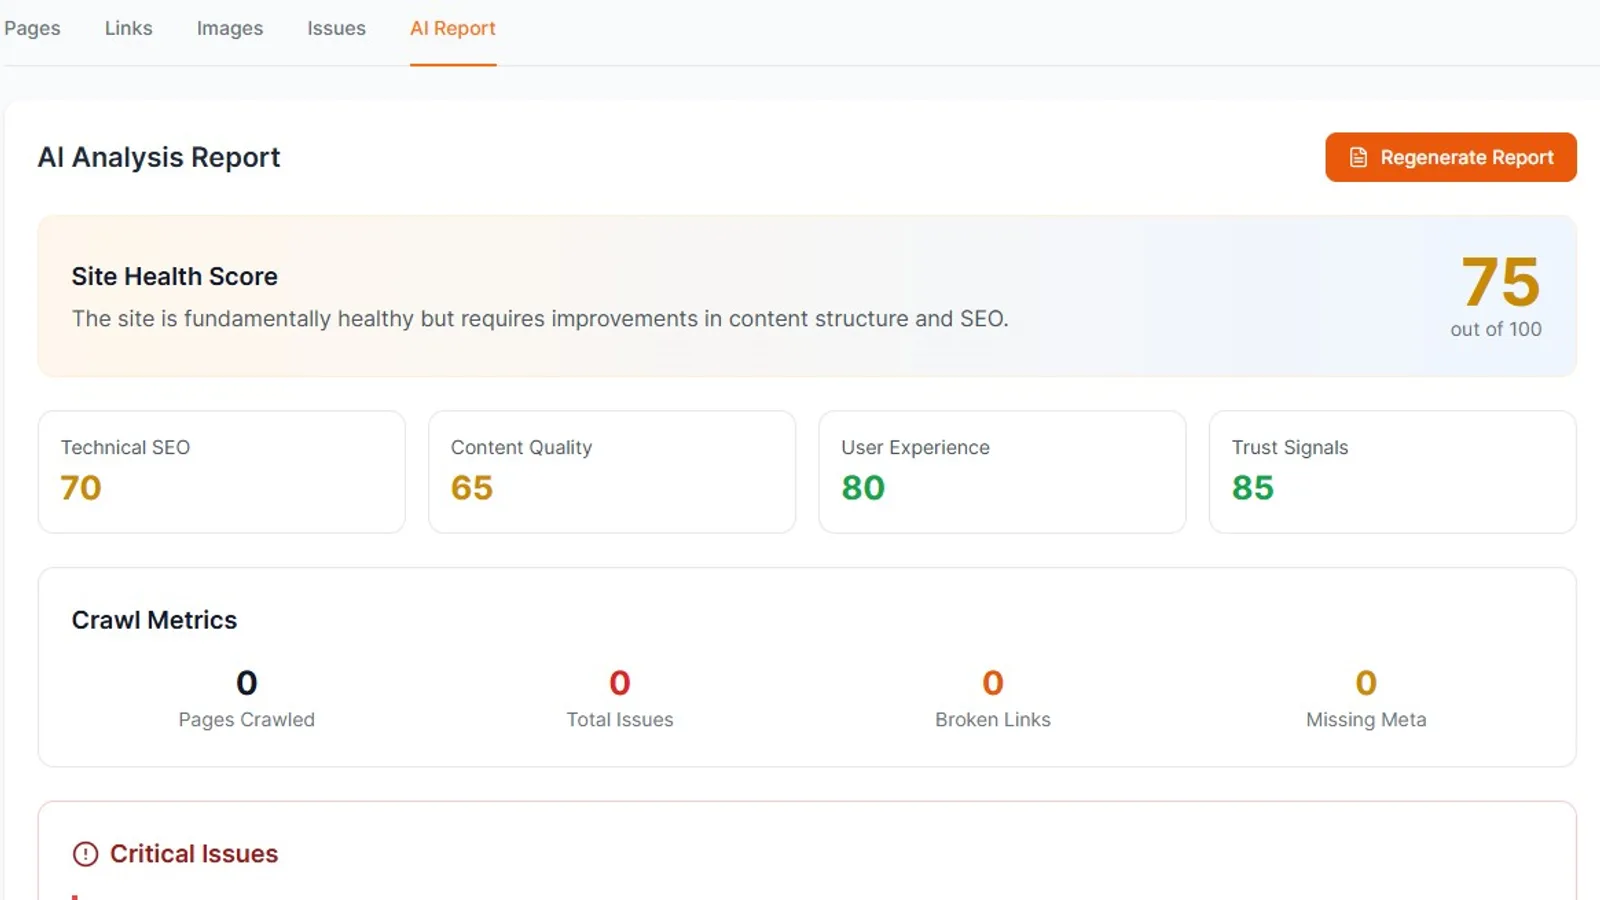
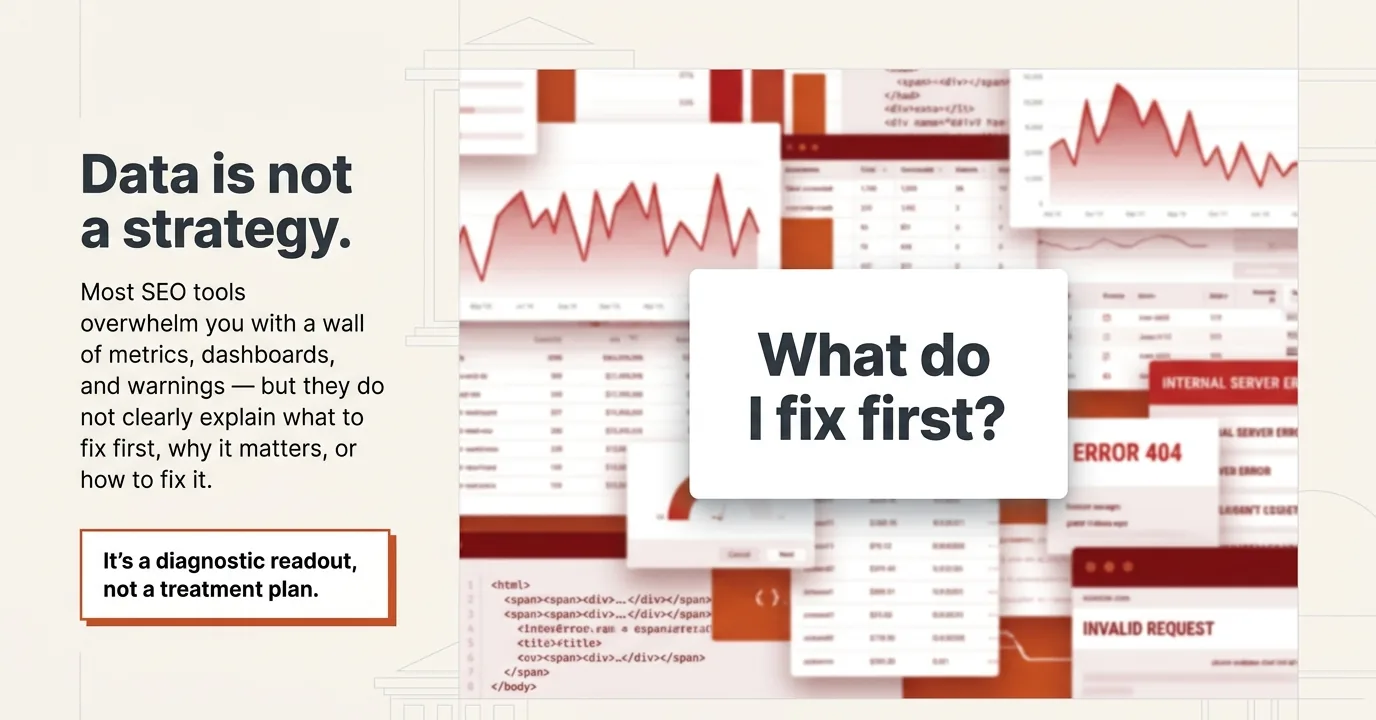
feat: landing-page how-it-works + severity sections; portfolio slide deck (#79)
Landing page (MarketingHomePage):
- Upgraded 3-step 'How It Works' to a 5-step stepper (URL -> crawl ->
  detect -> analyze with AI -> copy-paste fixes).
- Added 'Surfacing the signals that matter' — issues grouped by severity
  (critical/high/medium), matching the real issue-detector categories.

Portfolio:
- New cover thumbnail (optimized hero, 1878KB PNG -> 110KB WebP).
- 8 marketing slides converted to WebP (NotebookLM watermark cropped out),
  with accurate EN + es-MX alt text.
- PORTFOLIO.md accuracy pass: removed Celery/Redis (now asyncio in-process),
  set live_url, added Vite/Docker, refreshed health_status.

diff --git a/frontend/src/pages/MarketingHomePage.tsx b/frontend/src/pages/MarketingHomePage.tsx
@@ -3,6 +3,10 @@ import { Link, useNavigate } from "react-router-dom";
 import { useAuth } from "../contexts/AuthContext";
 import {
   Sparkles,
+  Globe,
+  Waypoints,
+  ClipboardCheck,
+  AlertTriangle,
   Target,
   TrendingUp,
   Zap,
@@ -316,58 +320,161 @@ const MarketingHomePage: React.FC = () => {
         </div>
       </section>
 
-      {/* How It Works */}
+      {/* How It Works — From URL to action in 5 steps */}
       <section className="py-20 bg-white">
         <div className="max-w-7xl mx-auto px-4 sm:px-6 lg:px-8">
           <div className="text-center mb-16">
             <h2 className="text-3xl md:text-5xl font-bold text-gray-900 mb-6">
-              How It Works
+              From URL to action in 5 steps
             </h2>
             <p className="text-xl text-gray-600 max-w-3xl mx-auto">
-              Paste a URL. Get a consultant-grade report. Three steps, three
-              minutes.
+              Paste a URL. Get a consultant-grade, copy-paste-ready action plan
+              — usually in minutes.
             </p>
           </div>
 
-          <div className="grid md:grid-cols-3 gap-12 max-w-5xl mx-auto">
-            <div className="text-center">
-              <div className="w-16 h-16 bg-secondary-100 rounded-full flex items-center justify-center mx-auto mb-6">
-                <span className="text-2xl font-bold text-secondary-600">1</span>
-              </div>
-              <h3 className="text-xl font-semibold text-gray-900 mb-3">
-                Paste Your URL
-              </h3>
-              <p className="text-gray-600">
-                Enter any website URL. Configure depth, page limits, and crawl
-                settings — or just use the defaults.
-              </p>
-            </div>
+          <div className="relative">
+            {/* Connecting line (desktop) */}
+            <div
+              className="hidden lg:block absolute top-8 left-[10%] right-[10%] h-0.5 bg-gradient-to-r from-primary-800 via-secondary-500 to-secondary-600"
+              aria-hidden="true"
+            />
+            <ol className="grid grid-cols-1 sm:grid-cols-2 lg:grid-cols-5 gap-10 lg:gap-6 relative">
+              {[
+                {
+                  icon: Globe,
+                  title: "Enter a URL",
+                  desc: "Drop in any website address.",
+                },
+                {
+                  icon: Waypoints,
+                  title: "Crawl the full site",
+                  desc: "We safely map every reachable page.",
+                },
+                {
+                  icon: Search,
+                  title: "Detect technical & content issues",
+                  desc: "Problems flagged automatically across the site.",
+                },
+                {
+                  icon: Brain,
+                  title: "Analyze with AI",
+                  desc: "Findings prioritized by real business impact.",
+                },
+                {
+                  icon: ClipboardCheck,
+                  title: "Get prioritized, copy-paste fixes",
+                  desc: "Paste straight into your CMS — or hand to your AI assistant.",
+                },
+              ].map((step, i) => {
+                const Icon = step.icon;
+                return (
+                  <li
+                    key={step.title}
+                    className="relative flex flex-col items-center text-center"
+                  >
+                    <div className="w-16 h-16 rounded-full bg-white border-2 border-secondary-500 flex items-center justify-center mb-5 shadow-soft relative z-10">
+                      <Icon className="w-7 h-7 text-secondary-600" />
+                    </div>
+                    <div className="text-sm font-bold text-secondary-600 mb-1">
+                      Step {i + 1}
+                    </div>
+                    <h3 className="text-lg font-semibold text-gray-900 mb-2">
+                      {step.title}
+                    </h3>
+                    <p className="text-sm text-gray-600 max-w-[16rem]">
+                      {step.desc}
+                    </p>
+                  </li>
+                );
+              })}
+            </ol>
+          </div>
+        </div>
+      </section>
 
-            <div className="text-center">
-              <div className="w-16 h-16 bg-secondary-100 rounded-full flex items-center justify-center mx-auto mb-6">
-                <span className="text-2xl font-bold text-secondary-600">2</span>
-              </div>
-              <h3 className="text-xl font-semibold text-gray-900 mb-3">
-                AI Analyzes Everything
-              </h3>
-              <p className="text-gray-600">
-                The crawler maps your site. The issue detector flags problems.
-                The AI prioritizes fixes by business impact.
-              </p>
-            </div>
+      {/* Surfacing the signals that matter */}
+      <section className="py-20 bg-gradient-to-b from-gray-50 to-white border-t border-gray-100">
+        <div className="max-w-7xl mx-auto px-4 sm:px-6 lg:px-8">
+          <div className="text-center mb-14">
+            <h2 className="text-3xl md:text-5xl font-bold text-gray-900 mb-4">
+              Surfacing the signals that matter
+            </h2>
+            <p className="text-xl text-gray-600 max-w-3xl mx-auto">
+              Automated detection of the highest-signal issues, sorted by
+              severity — so you always know what to fix first.
+            </p>
+          </div>
 
-            <div className="text-center">
-              <div className="w-16 h-16 bg-secondary-100 rounded-full flex items-center justify-center mx-auto mb-6">
-                <span className="text-2xl font-bold text-secondary-600">3</span>
+          <div className="max-w-5xl mx-auto space-y-5">
+            {[
+              {
+                level: "Critical Fixes",
+                marker: (
+                  <span
+                    className="w-5 h-5 rounded-full bg-red-700 flex-shrink-0"
+                    aria-hidden="true"
+                  />
+                ),
+                pill: "border-red-300 bg-red-50 text-red-800",
+                items: ["broken links"],
+              },
+              {
+                level: "High Priority",
+                marker: (
+                  <AlertTriangle
+                    className="w-5 h-5 text-orange-600 flex-shrink-0"
+                    fill="currentColor"
+                    aria-hidden="true"
+                  />
+                ),
+                pill: "border-orange-300 bg-orange-50 text-orange-800",
+                items: [
+                  "broken images",
+                  "oversized pages",
+                  "missing alt text",
+                  "duplicate titles",
+                ],
+              },
+              {
+                level: "Medium Priority",
+                marker: (
+                  <span
+                    className="w-4 h-4 rounded bg-yellow-500 flex-shrink-0"
+                    aria-hidden="true"
+                  />
+                ),
+                pill: "border-yellow-300 bg-yellow-50 text-yellow-800",
+                items: [
+                  "duplicate meta descriptions",
+                  "missing H1s",
+                  "thin content",
+                  "orphan pages",
+                ],
+              },
+            ].map((group) => (
+              <div
+                key={group.level}
+                className="bg-white rounded-2xl border border-gray-200 shadow-soft p-6 flex flex-col md:flex-row md:items-center gap-4"
+              >
+                <div className="flex items-center gap-3 md:w-56 flex-shrink-0">
+                  {group.marker}
+                  <span className="text-lg font-bold text-gray-900">
+                    {group.level}
+                  </span>
+                </div>
+                <div className="flex flex-wrap gap-2">
+                  {group.items.map((it) => (
+                    <span
+                      key={it}
+                      className={`px-3 py-1.5 rounded-full border text-sm font-medium ${group.pill}`}
+                    >
+                      {it}
+                    </span>
+                  ))}
+                </div>
               </div>
-              <h3 className="text-xl font-semibold text-gray-900 mb-3">
-                Get Your Action Plan
-              </h3>
-              <p className="text-gray-600">
-                A prioritized report with specific fixes, effort estimates, and
-                exportable deliverables. Hand it to your team and go.
-              </p>
-            </div>
+            ))}
           </div>
         </div>
       </section>

diff --git a/PORTFOLIO.md b/PORTFOLIO.md
@@ -5,7 +5,7 @@
 portfolio_enabled: true
 portfolio_priority: 18
 portfolio_featured: false
-portfolio_last_reviewed: "2026-06-28"
+portfolio_last_reviewed: "2026-06-29"
 
 title: "AI-Powered Web Scraper & SEO Analyzer"
 tagline: "Crawl websites, detect SEO issues, and generate AI-powered analysis reports"
@@ -23,18 +23,36 @@ tags:
   - "react"
   - "supabase"
 
-thumbnail: "/images/portfolio/ai-webscraper-01.webp"
+thumbnail: "/images/portfolio/ai-webscraper-cover.webp"
 slides:
   - src: "/images/portfolio/ai-webscraper-01.webp"
-    alt_en: "AI WebScraper crawl configuration screen with start URL, depth, page limits, rate limiting, and robots.txt controls"
-    alt_es: "Pantalla de configuración de rastreo de AI WebScraper con URL inicial, profundidad, límites de páginas, control de velocidad y respeto a robots.txt"
+    alt_en: "Slide: 'Crawl smarter. Rank higher. Convert more.' — AI WebScraper shown beside an executive AI site-audit report"
+    alt_es: "Diapositiva: 'Rastrea mejor. Posiciónate más alto. Convierte más.' — AI WebScraper junto a un reporte ejecutivo de auditoría del sitio con IA"
   - src: "/images/portfolio/ai-webscraper-02.webp"
-    alt_en: "GPT-4 generated site analysis report showing health score, technical SEO, content quality, and crawl metrics"
-    alt_es: "Reporte de análisis del sitio generado con GPT-4 que muestra el puntaje de salud, SEO técnico, calidad de contenido y métricas de rastreo"
+    alt_en: "Slide: 'Data is not a strategy' — most SEO tools bury you in metrics; AI WebScraper answers what to fix first"
+    alt_es: "Diapositiva: 'Los datos no son una estrategia' — la mayoría de las herramientas de SEO te abruman con métricas; AI WebScraper te dice qué corregir primero"
+  - src: "/images/portfolio/ai-webscraper-03.webp"
+    alt_en: "Slide: 'The intelligent consultant for your site' — raw crawl data flows through AI analysis into a prioritized action plan"
+    alt_es: "Diapositiva: 'El consultor inteligente para tu sitio' — los datos del rastreo pasan por el análisis con IA y se convierten en un plan de acción priorizado"
+  - src: "/images/portfolio/ai-webscraper-04.webp"
+    alt_en: "Slide: 'From URL to action in 5 steps' — enter a URL, crawl the site, detect issues, analyze with AI, get copy-paste fixes"
+    alt_es: "Diapositiva: 'De la URL a la acción en 5 pasos' — ingresa una URL, rastrea el sitio, detecta problemas, analiza con IA y obtén correcciones listas para copiar y pegar"
+  - src: "/images/portfolio/ai-webscraper-05.webp"
+    alt_en: "Slide: 'Surfacing the signals that matter' — detected issues grouped by severity into critical, high, and medium priority"
+    alt_es: "Diapositiva: 'Resaltamos las señales que importan' — los problemas detectados se agrupan por gravedad en prioridad crítica, alta y media"
+  - src: "/images/portfolio/ai-webscraper-06.webp"
+    alt_en: "Slide: 'More than a crawler, a strategic engine' — impact-versus-effort prioritization with before-and-after copy-paste fixes"
+    alt_es: "Diapositiva: 'Más que un rastreador, un motor estratégico' — priorización por impacto contra esfuerzo con correcciones de antes y después listas para copiar y pegar"
+  - src: "/images/portfolio/ai-webscraper-07.webp"
+    alt_en: "Slide: 'Built for the entire growth team' — business owners, marketing managers, agencies, and content/web teams"
+    alt_es: "Diapositiva: 'Hecho para todo el equipo de crecimiento' — dueños de negocios, gerentes de marketing, agencias y equipos de contenido y web"
+  - src: "/images/portfolio/ai-webscraper-08.webp"
+    alt_en: "Slide: 'From website crawl to growth roadmap' — enter your website URL and start a free AI audit"
+    alt_es: "Diapositiva: 'Del rastreo del sitio web a una hoja de ruta de crecimiento' — ingresa la URL de tu sitio e inicia una auditoría con IA gratis"
 hero_images: []
 demo_video_url: ""
 
-live_url: ""
+live_url: "https://scraper.cushlabs.ai"
 demo_url: ""
 case_study_url: ""
 
@@ -52,31 +70,31 @@ key_outcomes:
 
 tech_stack:
   - "React 18"
+  - "Vite"
   - "TypeScript"
   - "FastAPI"
   - "Python 3.11"
   - "Supabase (PostgreSQL)"
-  - "Celery"
-  - "Redis"
   - "OpenAI GPT-4"
   - "Playwright"
   - "BeautifulSoup4"
   - "TailwindCSS"
+  - "Docker"
 
 complexity: "Production"
 
 # === REPO HEALTH STATUS ===
-# Last audited: 2026-04-05
+# Last audited: 2026-06-29
 # Standards defined in: operating-system/delivery/repo-health-baseline.md
 health_status:
   sentry: "Y"
   testing: "Y"
   ci_cd: "Y"
-  health_endpoint: "-"
-  security_headers: "-"
+  health_endpoint: "Y"
+  security_headers: "Y"
   rate_limiting: "Y"
   env_validation: "-"
-  analytics: "DEFERRED"
+  analytics: "Y"
   structured_logging: "-"
   dependabot: "Y"
   secret_scanning: "Y"
@@ -87,7 +105,7 @@ health_status:
 
 AI WebScraper is a full-stack web crawling and site analysis platform that combines intelligent crawling with automated SEO auditing and AI-powered reporting. It crawls websites starting from a URL, extracts SEO metadata and content metrics, detects technical issues across 11 categories, and generates comprehensive reports using GPT-4.
 
-The platform is built with a React/TypeScript frontend, FastAPI backend, Celery task queue for async processing, and Supabase for authentication and data storage with Row Level Security on all tables. It includes a tiered access system (free: 3 crawls, admin: unlimited) designed for eventual SaaS monetization.
+The platform is built with a React/TypeScript (Vite) frontend, FastAPI backend, in-process async task processing (asyncio — no external queue), and Supabase for authentication and data storage with Row Level Security on all tables. It includes a tiered access system (free: 3 crawls, admin: unlimited) designed for eventual SaaS monetization.
 
 ## The Challenge
 
@@ -131,7 +149,7 @@ Free users get 3 crawls to evaluate the platform. Admin users get unlimited acce
 
 **Technical Demonstration:**
 
-- Full-stack production architecture: React + FastAPI + Celery + Redis + Supabase
+- Full-stack production architecture: React (Vite) + FastAPI + Supabase, async in-process task processing, Dockerized on a Hetzner VPS behind Caddy
 - Async crawling with rate limiting, depth control, and safety boundaries
 - LLM integration with structured outputs, token tracking, and cost budgeting
 - Security-first design with RLS, JWT auth, and tiered access control